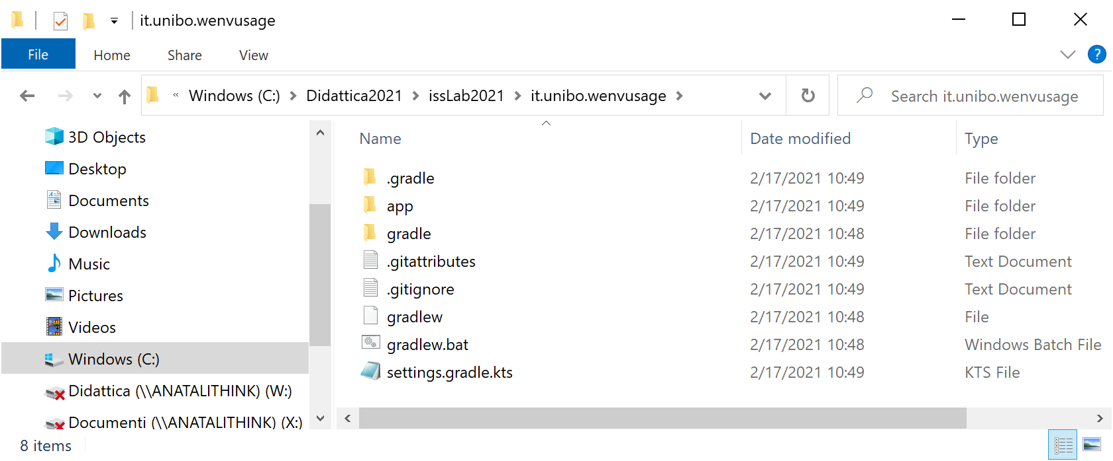
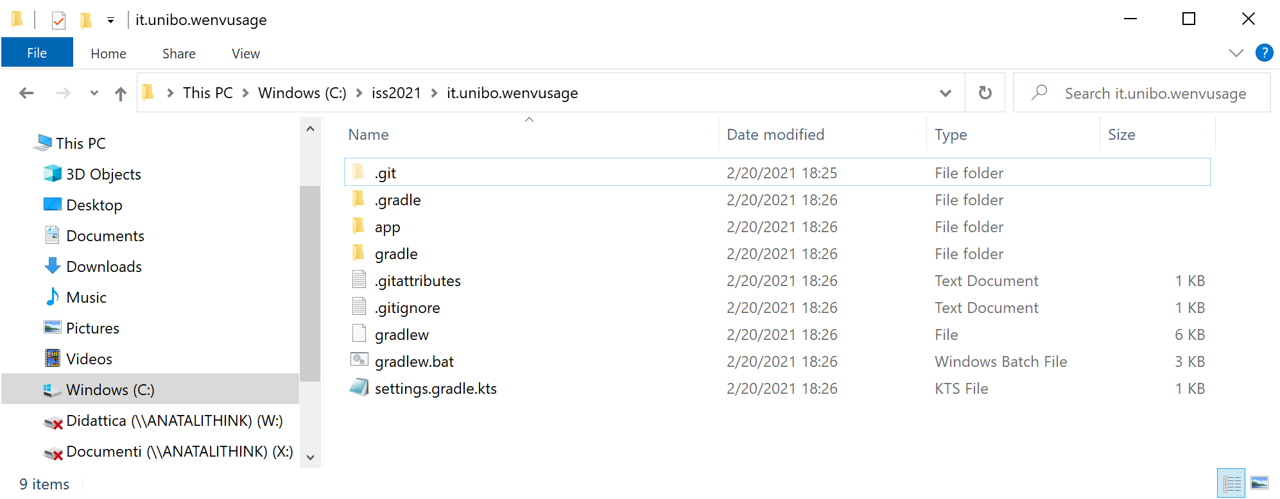
WEnvUsage.html magritte

diff --git a/it.unibo.wenvusage/userDocs/WEnvUsage.html b/it.unibo.wenvusage/userDocs/WEnvUsage.html
@@ -273,12 +273,22 @@ function myFunction() {
 <td style="width:30%" >
 <h3>Create a project using Gradle</h3>	
 <pre>
+mkdir iss2021
+cd 	  iss2021
+	
 mkdir it.unibo.wenvusage
+cd it.unibo.wenvusage
+
+git init
+git status
+git remote add origin https://github.com/anatali
+git remote -v
+
 gradle init (select 2, 3, 1, 2, 1, -, -)
 </pre> 
 </td>
 <td>
- <center><img src="./img/startUpWithGradle.png" alt="startUpWithGradle" width="70%" ></center>
+ <center><img src="./img/startUpWithGradle.png" alt="startUpWithGradle" width="90%" ></center>
 </td>
 </tr>
 
@@ -304,23 +314,80 @@ BUILD SUCCESSFUL in 2s
 
 <tr>
 <td style="width:30%" >
-
-<h3>Create the userDocs folder</h3>
-<h3>Modify <a href="../app/build.gradle.kts" target="code">app/build.gradle.kts</a></h3>	
-<h3>Formally define the Test (in JUnit)</h3>
-<pre>
-gradlew build -x test
-
-gradlew test jacocoTestReport
-
-gradlew run
-</pre>
- 
+<h3>Modify the project</h3>
+<ol>
+<li>Open the project in <ks>IntelliJ</ks></li>
+<li>Create the folder <ks>userDocs</ks></li>
+<li>Modify <a href="../app/build.gradle.kts" target="code">app/build.gradle.kts</a></li>
+</li>
+</ol>
 </td>
-<td>
- <center><img src="./img/modifiedByUser.png" alt="modifiedByUser" width="70%" ></center>
+<td><center><img src="./img/modifiedByUser.png" alt="modifiedByUser" width="70%" ></center>
 </td>
 </tr>
+
+<tr>
+<td>
+<h3>Write the application code</h3>
+Write the Java class that defines the application:
+ <a href="../app/src/main/java/it/unibo/wenvusage/MoveVirtualRobot.java" target="code">
+app/src/main/java/it/unibo/wenvusage/MoveVirtualRobot.java</a>
+<pre>
+gradlew run 	<kc>//does also the build</kc>
+</pre>
+</td>
+<td>
+<pre>
+<h4>Output</h4>
+<pre>
+<m>
+> Task :app:run
+turnLeft sendCmd
+MoveVirtualRobot | checkCollision_simple jsonStr= {"endmove":true,"move":"turnLeft"}
+MoveVirtualRobot | checkCollision_simple collision=false
+MoveVirtualRobot | moveLeft  failed= false
+turnRight sendCmd
+MoveVirtualRobot | checkCollision_simple jsonStr= {"endmove":true,"move":"turnRight"}
+MoveVirtualRobot | checkCollision_simple collision=false
+MoveVirtualRobot | moveRight failed= false
+
+BUILD SUCCESSFUL in 5s
+2 actionable tasks: 1 executed, 1 up-to-date
+</m>
+</pre>
+</td>
+</tr>
+
+<tr> 
+<td><h3>Write the testing code</h3>
+Write the Java class that defines the tests (using JUnit):
+<a href="../app/src/test/java/it/unibo/wenvusage/TestMoveVirtualRobot.java" target="code">
+app/src/test/java/it/unibo/wenvusage/TestMoveVirtualRobot.java</a>
+<pre>
+gradlew build 			<kc>//does also the testing</kc>
+gradlew build -x test		<kc>//excludes testing</kc>
+gradlew test			<kc>//does the testing</kc>
+
+
+</pre>
+
+</td>
+<td>The execution of the tests does produces the report 
+<a href="../app/build/reports/tests/test/index.html" target="code">app/build/reports/tests/test/index.html</a>
+
+<br/><br/>
+If we execute:
+<pre>
+gradlew test jacocoTestReport
+</pre>
+the  file 
+<a href="../app/build/jacoco/test.exec" target="code">app/build/jacoco/test.exec</a>
+generated by  <ks>Jacoco</ks>, is transformed in another report 
+<a href="../app/build/reports/jacoco/test/html/index.html" target="code">app/build/reports/jacoco/test/html/index.html</a>
+that shows the  coverage of code performed by the tests.
+</td>
+</tr>
+ 
 
 
 

diff --git a/it.unibo.wenvusage/app/src/main/java/it/unibo/wenvusage/MoveVirtualRobot.java b/it.unibo.wenvusage/app/src/main/java/it/unibo/wenvusage/MoveVirtualRobot.java
@@ -1,6 +1,7 @@
 /*
 MoveVirtualRobot.java
 ===============================================================
+Moves the virtual robot by using an HTTP client
 ===============================================================
 */
 package it.unibo.wenvusage;
@@ -70,7 +71,7 @@ public class MoveVirtualRobot {
 	public boolean moveLeft(int duration)     { return sendCmd("turnLeft", duration);     }
 	public boolean moveRight(int duration)    { return sendCmd("turnRight", duration);    }
 	public boolean moveStop(int duration)     { return sendCmd("alarm", duration);        }
-	/*
+/*
 MAIN
  */
 	public static void main(String[] args)   {
